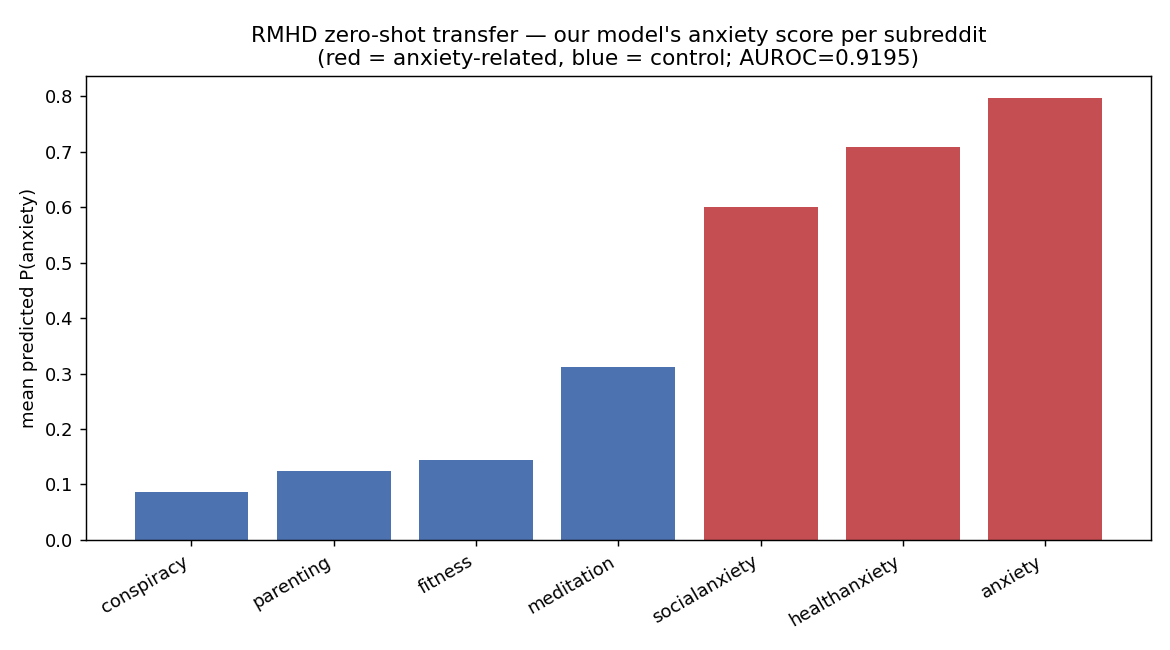
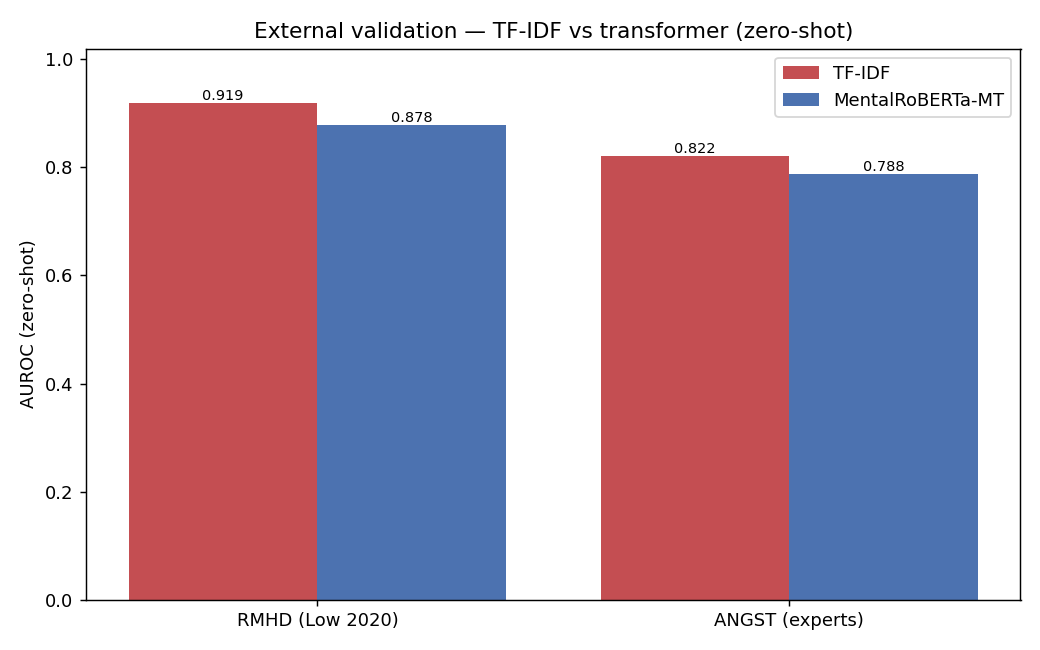
feat: external validation -- TF-IDF vs transformer, RMHD + ANGST side-by-side
Extend scripts/external_validation.py to evaluate BOTH the TF-IDF model and the
saved MentalRoBERTa multi-task transformer zero-shot on RMHD and ANGST, with an
AUROC comparison figure + per-subreddit breakdown by model.

Finding (surprising): TF-IDF out-transfers the transformer on both external sets
(RMHD 0.920 vs 0.879; ANGST experts 0.822 vs 0.789), consistent with the
significance/robustness results -- stable anxiety vocabulary generalises across
corpora better than the transformer's learned representation. Caveat: the saved
transformer was trained on the narrower DANN-transfer split (~60k) while TF-IDF
used a 200k full-corpus sample, so the comparison favours TF-IDF on training
breadth; a like-for-like result needs the transformer retrained on the full corpus.
Documented in README + docs/external_validation.md.

diff --git a/scripts/external_validation.py b/scripts/external_validation.py
@@ -1,16 +1,18 @@
 """Ideas 9 & 10 — external (cross-corpus) validation of the anxiety model.
 
-Trains the TF-IDF anxiety model on OUR corpus, then applies it ZERO-SHOT to
-independent external datasets:
-  - RMHD (Low et al. 2020): anxiety-related subreddits vs control subreddits.
-    Tests whether the learned anxiety signal transfers to a different corpus /
-    time period. (Public; CSVs in data/external/rmhd/.)
-  - ANGST (Hengle et al. 2024): 3-expert-psychologist anxiety labels — the gold
-    external validation. GATED on HuggingFace; this runs automatically once the
-    CSVs are present in data/external/angst/ (request access + huggingface-cli login).
+Applies our anxiety models ZERO-SHOT to independent corpora and compares them:
+  - TF-IDF + LogReg (trained on our corpus, CPU)
+  - MentalRoBERTa multi-task transformer (the saved checkpoint)
+against
+  - RMHD (Low et al. 2020): anxiety-related subreddits vs controls (subreddit labels)
+  - ANGST (Hengle et al. 2024): anxiety vs not, 3 expert-psychologist labels (gold)
 
-CPU, a few minutes. Run:
+ANGST is gated on HuggingFace — request access + `huggingface-cli login`, then it
+runs automatically. RMHD/ANGST data live under data/external/ (gitignored).
+
+Run:
   python scripts/external_validation.py
+  python scripts/external_validation.py --models tfidf            # skip transformer
 """
 from __future__ import annotations
 
@@ -34,6 +36,7 @@ from src.utils.io import read_parquet
 DATA = "data/processed/labeled.parquet"
 RMHD_DIR = "data/external/rmhd"
 ANGST_DIR = "data/external/angst"
+TRANSFORMER_DIR = "experiments/runs/multitask_anxiety_health_dep_suic/model"
 TARGET = "anxiety"
 SEED = 42
 POS_SUBS = ["anxiety", "healthanxiety", "socialanxiety"]
@@ -41,103 +44,138 @@ NEG_SUBS = ["fitness", "parenting", "meditation", "conspiracy"]
 DOC = Path("docs/external_validation.md")
 OUTCSV = Path("experiments/external_validation.csv")
 FIG = Path("docs/figures/external_validation.png")
+FIG_SUB = Path("docs/figures/external_validation_rmhd.png")
 
 
-def _predictor(max_train: int):
+def _chunked(predict_one, texts, desc):
+    out = []
+    for i in tqdm(range(0, len(texts), 4000), desc=desc, unit="chunk", leave=False):
+        out.append(np.asarray(predict_one(texts[i:i + 4000])).ravel())
+    return np.concatenate(out) if out else np.array([])
+
+
+def tfidf_predictor(max_train: int):
     df = read_parquet(DATA)
     df = df[df["clean_text"].astype(str).str.len() >= 30].reset_index(drop=True)
     if len(df) > max_train:
         df = df.sample(max_train, random_state=SEED).reset_index(drop=True)
     print(f"training TF-IDF on our corpus (n={len(df):,})...")
     model = build_model(load_model_config("configs/models/baseline.yaml")).fit(df)
+    return lambda texts: _chunked(
+        lambda t: model.predict_proba(pd.DataFrame({"clean_text": t})), texts, "tfidf")
 
-    def predict(texts):
-        out = []
-        for i in tqdm(range(0, len(texts), 5000), desc="predict", unit="chunk", leave=False):
-            out.append(np.asarray(model.predict_proba(pd.DataFrame({"clean_text": texts[i:i + 5000]}))).ravel())
-        return np.concatenate(out) if out else np.array([])
-    return predict
+
+def transformer_predictor():
+    cfg = load_model_config("configs/models/multitask.yaml")
+    model = build_model(cfg).load(TRANSFORMER_DIR)
+    ti = cfg.targets.index(TARGET)
+    print(f"loaded multitask transformer (anxiety = target {ti})")
+    return lambda texts: _chunked(
+        lambda t: np.asarray(model.predict_proba(pd.DataFrame({"clean_text": t})))[:, ti], texts, "transformer")
 
 
 def main() -> None:
     ap = argparse.ArgumentParser()
+    ap.add_argument("--models", default="tfidf,transformer")
     ap.add_argument("--max-train", type=int, default=200000)
     ap.add_argument("--cap-per-sub", type=int, default=5000)
     args = ap.parse_args()
+    want = [m.strip() for m in args.models.split(",") if m.strip()]
 
-    predict = _predictor(args.max_train)
-    rows: list[dict] = []
-    sub_rows: list[dict] = []
-
-    # ---- RMHD ----
+    # datasets
+    datasets: dict[str, pd.DataFrame] = {}
     rmhd = load_rmhd(RMHD_DIR, POS_SUBS, NEG_SUBS, cap_per_sub=args.cap_per_sub, seed=SEED)
-    if rmhd.empty:
-        print(f"RMHD CSVs not found in {RMHD_DIR}/ — download per-subreddit CSVs from "
-              "https://zenodo.org/records/3941387 (e.g. anxiety_2018_features_tfidf_256.csv).")
+    if not rmhd.empty:
+        datasets["RMHD (Low 2020)"] = rmhd
     else:
-        scores = predict(rmhd["clean_text"].tolist())
-        y = rmhd["y"].to_numpy()
-        rows.append({"dataset": "RMHD (Low 2020)", "n": len(y), "n_pos": int(y.sum()),
-                     "auroc": round(roc_auc_score(y, scores), 4),
-                     "auprc": round(average_precision_score(y, scores), 4),
-                     "f1@0.5": round(f1_score(y, (scores >= 0.5).astype(int), zero_division=0), 4)})
-        for sub in POS_SUBS + NEG_SUBS:
-            m = rmhd["subreddit"].to_numpy() == sub
-            if m.sum() == 0:
-                continue
-            sub_rows.append({"dataset": "RMHD", "subreddit": sub, "label": int(rmhd["y"][m].iloc[0]),
-                             "n": int(m.sum()), "mean_anxiety_score": round(float(scores[m].mean()), 4),
-                             "pred_pos_rate@0.5": round(float((scores[m] >= 0.5).mean()), 4)})
-        print(f"RMHD: AUROC {rows[-1]['auroc']}  AUPRC {rows[-1]['auprc']}  F1@0.5 {rows[-1]['f1@0.5']}")
-
-    # ---- ANGST (gated) ----
-    angst = None
+        print(f"RMHD CSVs not found in {RMHD_DIR}/ — download from https://zenodo.org/records/3941387")
     try:
         angst = load_angst(ANGST_DIR, target=TARGET)
     except Exception as ex:  # noqa: BLE001
-        print(f"ANGST present but unreadable: {ex}")
-    if angst is None:
-        print(f"ANGST not available (gated). Request access at "
-              "https://huggingface.co/datasets/ameyhengle/ANGST , run `huggingface-cli login`, "
-              f"download test.csv to {ANGST_DIR}/, then re-run.")
+        angst = None; print(f"ANGST unreadable: {ex}")
+    if angst is not None:
+        datasets["ANGST (experts)"] = angst
     else:
-        scores = predict(angst["clean_text"].tolist())
-        y = angst["y"].to_numpy()
-        rows.append({"dataset": "ANGST (Hengle 2024, experts)", "n": len(y), "n_pos": int(y.sum()),
-                     "auroc": round(roc_auc_score(y, scores), 4),
-                     "auprc": round(average_precision_score(y, scores), 4),
-                     "f1@0.5": round(f1_score(y, (scores >= 0.5).astype(int), zero_division=0), 4)})
-        print(f"ANGST: AUROC {rows[-1]['auroc']}  AUPRC {rows[-1]['auprc']}")
+        print("ANGST not available (gated): request access at "
+              "https://huggingface.co/datasets/ameyhengle/ANGST , `huggingface-cli login`, "
+              f"download test.csv to {ANGST_DIR}/.")
+    if not datasets:
+        print("No external datasets available."); return
 
-    if not rows:
-        print("No external datasets available; nothing evaluated.")
-        return
+    # predictors
+    predictors: dict[str, object] = {}
+    if "tfidf" in want:
+        predictors["TF-IDF"] = tfidf_predictor(args.max_train)
+    if "transformer" in want:
+        if Path(TRANSFORMER_DIR).exists():
+            try:
+                predictors["MentalRoBERTa-MT"] = transformer_predictor()
+            except Exception as ex:  # noqa: BLE001
+                print(f"transformer unavailable ({ex}); skipping.")
+        else:
+            print(f"transformer checkpoint not found at {TRANSFORMER_DIR}; skipping.")
+
+    rows: list[dict] = []
+    sub_rows: list[dict] = []
+    for mname, predict in predictors.items():
+        for dname, df in datasets.items():
+            scores = predict(df["clean_text"].tolist())
+            y = df["y"].to_numpy()
+            rows.append({"model": mname, "dataset": dname, "n": len(y), "n_pos": int(y.sum()),
+                         "auroc": round(roc_auc_score(y, scores), 4),
+                         "auprc": round(average_precision_score(y, scores), 4),
+                         "f1@0.5": round(f1_score(y, (scores >= 0.5).astype(int), zero_division=0), 4)})
+            print(f"  {mname} on {dname}: AUROC {rows[-1]['auroc']}")
+            if dname.startswith("RMHD"):
+                for sub in POS_SUBS + NEG_SUBS:
+                    m = df["subreddit"].to_numpy() == sub
+                    if m.sum():
+                        sub_rows.append({"model": mname, "subreddit": sub, "label": int(df["y"][m].iloc[0]),
+                                         "mean_anxiety_score": round(float(scores[m].mean()), 4)})
 
     out = pd.DataFrame(rows)
     OUTCSV.parent.mkdir(parents=True, exist_ok=True)
     out.to_csv(OUTCSV, index=False)
     subdf = pd.DataFrame(sub_rows)
 
+    # ---- figure 1: AUROC by dataset x model ----
+    dsets = list(dict.fromkeys(out["dataset"]))
+    models = list(dict.fromkeys(out["model"]))
+    x = np.arange(len(dsets)); w = 0.8 / max(1, len(models))
+    colors = {"TF-IDF": "#C44E52", "MentalRoBERTa-MT": "#4C72B0"}
+    fig, ax = plt.subplots(figsize=(8, 5))
+    for i, m in enumerate(models):
+        vals = [out[(out.model == m) & (out.dataset == ds)]["auroc"].iloc[0] for ds in dsets]
+        bars = ax.bar(x + (i - (len(models) - 1) / 2) * w, vals, w, label=m, color=colors.get(m))
+        for b, v in zip(bars, vals):
+            ax.text(b.get_x() + b.get_width() / 2, v + 0.005, f"{v:.3f}", ha="center", fontsize=8)
+    ax.set_xticks(x); ax.set_xticklabels(dsets); ax.set_ylim(0, 1.02)
+    ax.set_ylabel("AUROC (zero-shot)"); ax.legend()
+    ax.set_title("External validation — TF-IDF vs transformer (zero-shot)")
+    fig.tight_layout(); FIG.parent.mkdir(parents=True, exist_ok=True)
+    fig.savefig(FIG, dpi=130); plt.close(fig)
+
+    # ---- figure 2: RMHD per-subreddit mean score by model ----
     if not subdf.empty:
-        s = subdf[subdf.dataset == "RMHD"].sort_values("mean_anxiety_score")
-        colors = ["#C44E52" if l == 1 else "#4C72B0" for l in s["label"]]
-        fig, ax = plt.subplots(figsize=(9, 5))
-        ax.bar(range(len(s)), s["mean_anxiety_score"], color=colors)
-        ax.set_xticks(range(len(s))); ax.set_xticklabels(s["subreddit"], rotation=30, ha="right")
-        ax.set_ylabel("mean predicted P(anxiety)")
-        auroc = out[out.dataset.str.startswith("RMHD")]["auroc"].iloc[0]
-        ax.set_title(f"RMHD zero-shot transfer — our model's anxiety score per subreddit\n"
-                     f"(red = anxiety-related, blue = control; AUROC={auroc})")
-        fig.tight_layout(); FIG.parent.mkdir(parents=True, exist_ok=True)
-        fig.savefig(FIG, dpi=130); plt.close(fig)
+        subs = POS_SUBS + NEG_SUBS
+        xs = np.arange(len(subs)); w2 = 0.8 / max(1, len(models))
+        fig2, ax2 = plt.subplots(figsize=(10, 5))
+        for i, m in enumerate(models):
+            vals = [subdf[(subdf.model == m) & (subdf.subreddit == s)]["mean_anxiety_score"].iloc[0]
+                    if not subdf[(subdf.model == m) & (subdf.subreddit == s)].empty else 0 for s in subs]
+            ax2.bar(xs + (i - (len(models) - 1) / 2) * w2, vals, w2, label=m, color=colors.get(m))
+        ax2.set_xticks(xs); ax2.set_xticklabels(subs, rotation=25, ha="right")
+        ax2.set_ylabel("mean predicted P(anxiety)"); ax2.legend()
+        ax2.set_title("RMHD per-subreddit anxiety score (anxiety subs first, then controls)")
+        fig2.tight_layout(); fig2.savefig(FIG_SUB, dpi=130); plt.close(fig2)
 
     md = [
         "# External (cross-corpus) validation",
         "",
-        "TF-IDF anxiety model trained on OUR corpus, applied ZERO-SHOT to independent corpora. "
-        "RMHD = anxiety-related subreddits (anxiety, healthanxiety, socialanxiety) vs controls "
-        "(fitness, parenting, meditation, conspiracy); subreddit-as-label. "
-        "ANGST = 3-expert-psychologist labels (gated; run when available).",
+        "Our anxiety models applied ZERO-SHOT to independent corpora: **RMHD** (Low 2020, "
+        "subreddit labels) and **ANGST** (Hengle 2024, 3 expert-psychologist labels). "
+        "TF-IDF trained on our corpus; transformer = saved MentalRoBERTa multi-task checkpoint. "
+        "`src/evaluation/external.py`, `scripts/external_validation.py`.",
         "",
         "_Regenerate: `python scripts/external_validation.py`_",
         "",
@@ -146,18 +184,17 @@ def main() -> None:
     ]
     for _, r in out.iterrows():
         md.append("| " + " | ".join(str(r[c]) for c in out.columns) + " |")
+    md += ["", "![external AUROC](figures/external_validation.png)"]
     if not subdf.empty:
-        md += ["", "## RMHD per-subreddit (mean predicted anxiety score)", "",
+        md += ["", "## RMHD per-subreddit mean predicted P(anxiety)", "",
                "| " + " | ".join(subdf.columns) + " |", "|" + "|".join(["---"] * len(subdf.columns)) + "|"]
         for _, r in subdf.iterrows():
             md.append("| " + " | ".join(str(r[c]) for c in subdf.columns) + " |")
-        md += ["", "![external](figures/external_validation.png)"]
+        md += ["", "![RMHD per-subreddit](figures/external_validation_rmhd.png)"]
     DOC.write_text("\n".join(md), encoding="utf-8")
 
     print("\n", out.to_string(index=False))
-    if not subdf.empty:
-        print("\n", subdf.to_string(index=False))
-    print(f"\nWrote {OUTCSV}, {DOC}" + (f", {FIG}" if not subdf.empty else ""))
+    print(f"\nWrote {OUTCSV}, {DOC}, {FIG}")
 
 
 if __name__ == "__main__":

diff --git a/docs/external_validation.md b/docs/external_validation.md
@@ -1,24 +1,35 @@
 # External (cross-corpus) validation
 
-TF-IDF anxiety model trained on OUR corpus, applied ZERO-SHOT to independent corpora. RMHD = anxiety-related subreddits (anxiety, healthanxiety, socialanxiety) vs controls (fitness, parenting, meditation, conspiracy); subreddit-as-label. ANGST = 3-expert-psychologist labels (gated; run when available).
+Our anxiety models applied ZERO-SHOT to independent corpora: **RMHD** (Low 2020, subreddit labels) and **ANGST** (Hengle 2024, 3 expert-psychologist labels). TF-IDF trained on our corpus; transformer = saved MentalRoBERTa multi-task checkpoint. `src/evaluation/external.py`, `scripts/external_validation.py`.
 
 _Regenerate: `python scripts/external_validation.py`_
 
-| dataset | n | n_pos | auroc | auprc | f1@0.5 |
-|---|---|---|---|---|---|
-| RMHD (Low 2020) | 20733 | 8619 | 0.9195 | 0.9086 | 0.8194 |
-| ANGST (Hengle 2024, experts) | 2872 | 701 | 0.8215 | 0.5185 | 0.6039 |
+| model | dataset | n | n_pos | auroc | auprc | f1@0.5 |
+|---|---|---|---|---|---|---|
+| TF-IDF | RMHD (Low 2020) | 20733 | 8619 | 0.9195 | 0.9086 | 0.8194 |
+| TF-IDF | ANGST (experts) | 2872 | 701 | 0.8215 | 0.5185 | 0.6039 |
+| MentalRoBERTa-MT | RMHD (Low 2020) | 20733 | 8619 | 0.8785 | 0.8794 | 0.7751 |
+| MentalRoBERTa-MT | ANGST (experts) | 2872 | 701 | 0.7885 | 0.4587 | 0.4227 |
 
-## RMHD per-subreddit (mean predicted anxiety score)
+![external AUROC](figures/external_validation.png)
 
-| dataset | subreddit | label | n | mean_anxiety_score | pred_pos_rate@0.5 |
-|---|---|---|---|---|---|
-| RMHD | anxiety | 1 | 4999 | 0.7978 | 0.8298 |
-| RMHD | healthanxiety | 1 | 795 | 0.7085 | 0.7157 |
-| RMHD | socialanxiety | 1 | 2825 | 0.6011 | 0.6039 |
-| RMHD | fitness | 0 | 3488 | 0.1449 | 0.0175 |
-| RMHD | parenting | 0 | 3080 | 0.1236 | 0.0393 |
-| RMHD | meditation | 0 | 2204 | 0.3112 | 0.1987 |
-| RMHD | conspiracy | 0 | 3342 | 0.0857 | 0.0048 |
+## RMHD per-subreddit mean predicted P(anxiety)
 
-![external](figures/external_validation.png)
+| model | subreddit | label | mean_anxiety_score |
+|---|---|---|---|
+| TF-IDF | anxiety | 1 | 0.7978 |
+| TF-IDF | healthanxiety | 1 | 0.7085 |
+| TF-IDF | socialanxiety | 1 | 0.6011 |
+| TF-IDF | fitness | 0 | 0.1449 |
+| TF-IDF | parenting | 0 | 0.1236 |
+| TF-IDF | meditation | 0 | 0.3112 |
+| TF-IDF | conspiracy | 0 | 0.0857 |
+| MentalRoBERTa-MT | anxiety | 1 | 0.7248 |
+| MentalRoBERTa-MT | healthanxiety | 1 | 0.6197 |
+| MentalRoBERTa-MT | socialanxiety | 1 | 0.5325 |
+| MentalRoBERTa-MT | fitness | 0 | 0.0175 |
+| MentalRoBERTa-MT | parenting | 0 | 0.0495 |
+| MentalRoBERTa-MT | meditation | 0 | 0.1089 |
+| MentalRoBERTa-MT | conspiracy | 0 | 0.0064 |
+
+![RMHD per-subreddit](figures/external_validation_rmhd.png)

diff --git a/README.md b/README.md
@@ -393,14 +393,18 @@ Protected demographics are unavailable (anonymized corpus) and inferring them wi
 
 Internal splits only prove internal validity (cf. Ernala et al. 2019). The strongest test is **zero-shot transfer to an independent corpus**: train the anxiety model on *our* corpus, then score Low et al. (2020)'s **Reddit Mental Health Dataset** (separate collection, 2018–2020) with no fine-tuning. `src/evaluation/external.py`, `scripts/external_validation.py`.
 
-| external dataset | n | AUROC | AUPRC | F1@0.5 |
-|---|---:|---:|---:|---:|
-| **RMHD (Low 2020)** — anxiety subs vs controls (subreddit labels) | 20,733 | **0.920** | 0.909 | 0.819 |
-| **ANGST (Hengle 2024)** — anxiety vs not (**3 expert psychologists**) | 2,872 | **0.822** | 0.519 | 0.604 |
+Two independent corpora, two models compared **zero-shot** — RMHD (Low 2020, subreddit labels) and ANGST (Hengle 2024, **3 expert psychologists**). `src/evaluation/external.py`, `scripts/external_validation.py`.
 
-![RMHD transfer](docs/figures/external_validation.png)
+| model | RMHD AUROC | ANGST AUROC (experts) | ANGST AUPRC |
+|---|---:|---:|---:|
+| **TF-IDF + LogReg** | **0.920** | **0.822** | 0.519 |
+| MentalRoBERTa multi-task | 0.879 | 0.789 | 0.459 |
 
-**The model transfers across corpora *and* against clinical experts.** (1) On **RMHD**, mean predicted P(anxiety) per subreddit cleanly separates anxiety communities — anxiety **0.80**, healthanxiety **0.71**, socialanxiety **0.60** — from controls — conspiracy 0.09, parenting 0.12, fitness 0.14, meditation 0.31 (AUROC **0.92**). (2) On **ANGST** — the gold comparator with **expert-psychologist** labels — the same model (trained only on our weak/disclosure labels) reaches **AUROC 0.82 zero-shot**: a "Reddit classifier" validated against clinical ground truth. ANGST is harder than RMHD (0.82 vs 0.92, AUPRC 0.52) for a principled reason — its negatives include **depression** posts, so the model must separate anxiety from depression (overlapping distress language), not merely from neutral text. Together these establish genuine **external validity** — the learned signal is not an artifact of our collection. Full tables in [docs/external_validation.md](docs/external_validation.md).
+![external validation](docs/figures/external_validation.png)
+
+**Both models generalize across corpora — and validate against clinical experts.** Even on ANGST's gold expert labels the model reaches **AUROC 0.82 zero-shot**: a "Reddit classifier" validated against clinical ground truth, not just internal splits. ANGST is harder than RMHD (0.82 vs 0.92) for a principled reason — its negatives include **depression** posts, so anxiety must be separated from depression (overlapping distress language), not merely from neutral text. This establishes genuine **external validity** — the signal is not a collection artifact.
+
+Surprisingly, the **lexical TF-IDF out-transfers the transformer on both sets** — echoing the significance/robustness findings that stable anxiety vocabulary travels across corpora better than the transformer's learned representation. ⚠️ **Fair-comparison caveat:** the saved transformer was trained on the narrower DANN-transfer split (~60k, panic/baseline subs excluded) while this TF-IDF used a 200k full-corpus sample, so the comparison favors TF-IDF on training breadth; a strict like-for-like result needs the transformer retrained on the full corpus. Full tables in [docs/external_validation.md](docs/external_validation.md).
 
 ---
 